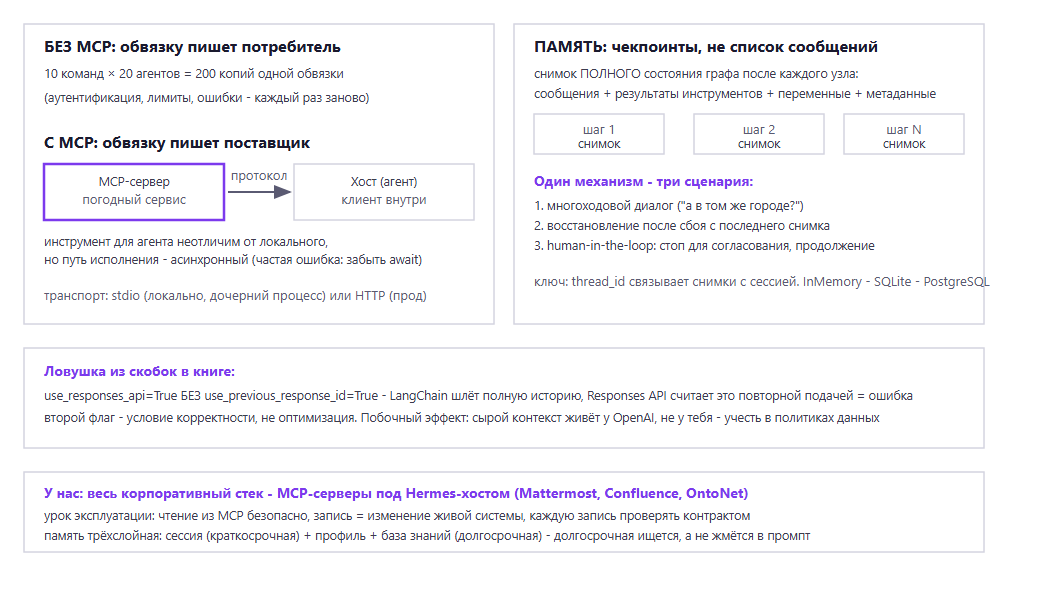
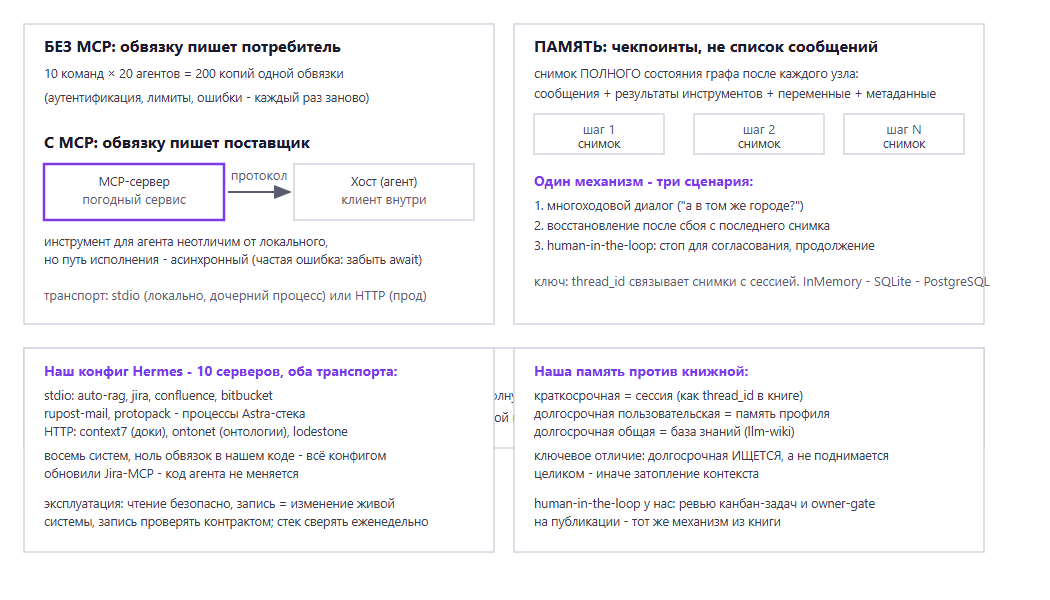
Урок 7 углублён: реальный конфиг 10 MCP-серверов, FastMCP-листинг, ловушка Responses API

Changed region(s): [[0.0305, 0.6, 0.9143, 0.93]]

diff --git a/07-glava-13-mcp-pamyat/materials/eli5-mcp-checkpoints-glava-13.html b/07-glava-13-mcp-pamyat/materials/eli5-mcp-checkpoints-glava-13.html
@@ -70,11 +70,27 @@ svg{width:100%;height:auto;display:block}
 <text x="40" y="392" class="t-tech">use_responses_api=True БЕЗ use_previous_response_id=True - LangChain шлёт полную историю, Responses API считает это повторной подачей = ошибка</text>
 <text x="40" y="414" class="t-tech">второй флаг - условие корректности, не оптимизация. Побочный эффект: сырой контекст живёт у OpenAI, не у тебя - учесть в политиках данных</text>
 
-<!-- Наши заметки -->
-<rect x="20" y="464" width="960" height="80" class="box"/>
-<text x="40" y="490" class="t-hl">У нас: весь корпоративный стек - MCP-серверы под Hermes-хостом (Mattermost, Confluence, OntoNet)</text>
-<text x="40" y="512" class="t-tech">урок эксплуатации: чтение из MCP безопасно, запись = изменение живой системы, каждую запись проверять контрактом</text>
-<text x="40" y="532" class="t-tech">память трёхслойная: сессия (краткосрочная) + профиль + база знаний (долгосрочная) - долгосрочная ищется, а не жмётся в промпт</text>
+<!-- Наши заметки: живой конфиг -->
+<rect x="20" y="340" width="470" height="204" class="box"/>
+<text x="40" y="368" class="t-hl">Наш конфиг Hermes - 10 серверов, оба транспорта:</text>
+<text x="40" y="392" class="t-tech">stdio: auto-rag, jira, confluence, bitbucket</text>
+<text x="40" y="410" class="t-tech">rupost-mail, protopack - процессы Astra-стека</text>
+<text x="40" y="428" class="t-tech">HTTP: context7 (доки), ontonet (онтологии), lodestone</text>
+<text x="40" y="452" class="t-tech">восемь систем, ноль обвязок в нашем коде - всё конфигом</text>
+<text x="40" y="470" class="t-tech">обновили Jira-MCP - код агента не меняется</text>
+<text x="40" y="500" class="t-tech">эксплуатация: чтение безопасно, запись = изменение живой</text>
+<text x="40" y="518" class="t-tech">системы, запись проверять контрактом; стек сверять еженедельно</text>
+
+<!-- Память заметки -->
+<rect x="510" y="340" width="470" height="204" class="box"/>
+<text x="530" y="368" class="t-hl">Наша память против книжной:</text>
+<text x="530" y="392" class="t-tech">краткосрочная = сессия (как thread_id в книге)</text>
+<text x="530" y="410" class="t-tech">долгосрочная пользовательская = память профиля</text>
+<text x="530" y="428" class="t-tech">долгосрочная общая = база знаний (llm-wiki)</text>
+<text x="530" y="452" class="t-tech">ключевое отличие: долгосрочная ИЩЕТСЯ, а не поднимается</text>
+<text x="530" y="470" class="t-tech">целиком - иначе затопление контекста</text>
+<text x="530" y="500" class="t-tech">human-in-the-loop у нас: ревью канбан-задач и owner-gate</text>
+<text x="530" y="518" class="t-tech">на публикации - тот же механизм из книги</text>
 </svg>
 </div>
 </body>
